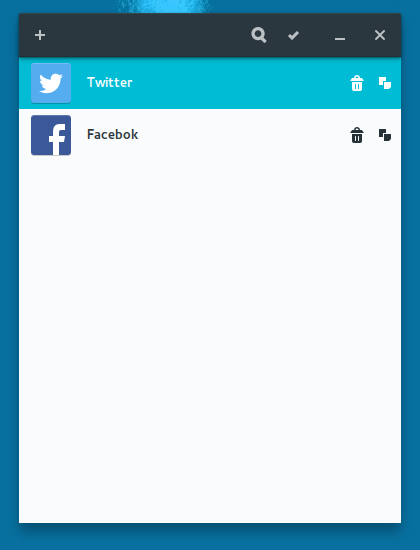
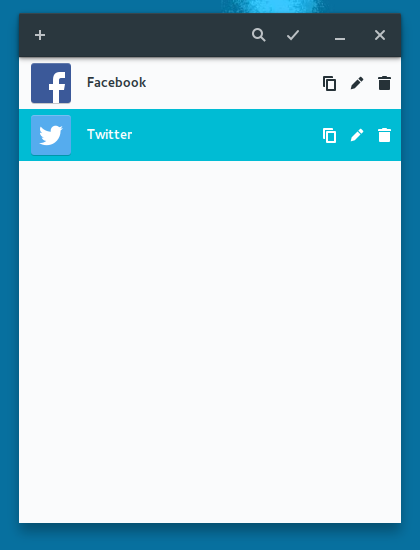
update screenshot & add python-pil depend

Changed region(s): [[0.031, 0.0, 0.9595, 0.3091], [0.2786, 0.0, 0.4952, 0.0309]]

diff --git a/README.md b/README.md
@@ -6,11 +6,12 @@ Two-factor authentication code generator for Gnome <br>
 ### Dependecies
 - `Python 3.3+`
 - `Gtk 3.16+`
-- `PyOTP`
+- `python-pyotp`
+- `python-yaml`
+- `python-pillow`
 - `zbarlight` depends on `zbar`
     - `libzbar-dev` on Ubuntu
     - `zbar` on Arch
-- `pyyaml`
 - `GnomeKeyring`
 - `gnome-screenshot`
 
@@ -41,7 +42,7 @@ Two-factor authentication code generator for Gnome <br>
 ```bash
     git clone https://github.com/bil-elmoussaoui/TwoFactorAuth && cd ./TwoFactorAuth
 ```
-2 - Install `PyOTP`
+2 - Install `python-pyotp`
 ```bash
     sudo pip install pyotp
 ```
@@ -49,19 +50,23 @@ Two-factor authentication code generator for Gnome <br>
 ```bash
 sudo pip install zbarlight
 ```
-4 - Install `pyyaml`
+4 - Install `python-yaml`
 ```bash
 sudo pip install pyyaml
 ```
+5 - Install `python-pillow`
+```bash
+sudo pip install pillow
+```
 
 <sub>PS : In some distributions you will need to use `pip3` instead of `pip` to install the compatible version of the package with Python 3.</sub> <br>
-5 - Afterwards
+6 - Afterwards
 ```bash
     ./autogen.sh
     make
     sudo make install
 ```
-6 - You can run the application from the desktop file or from terminal using
+7 - You can run the application from the desktop file or from terminal using
 ```bash
     gnome-twofactorauth
 ```
